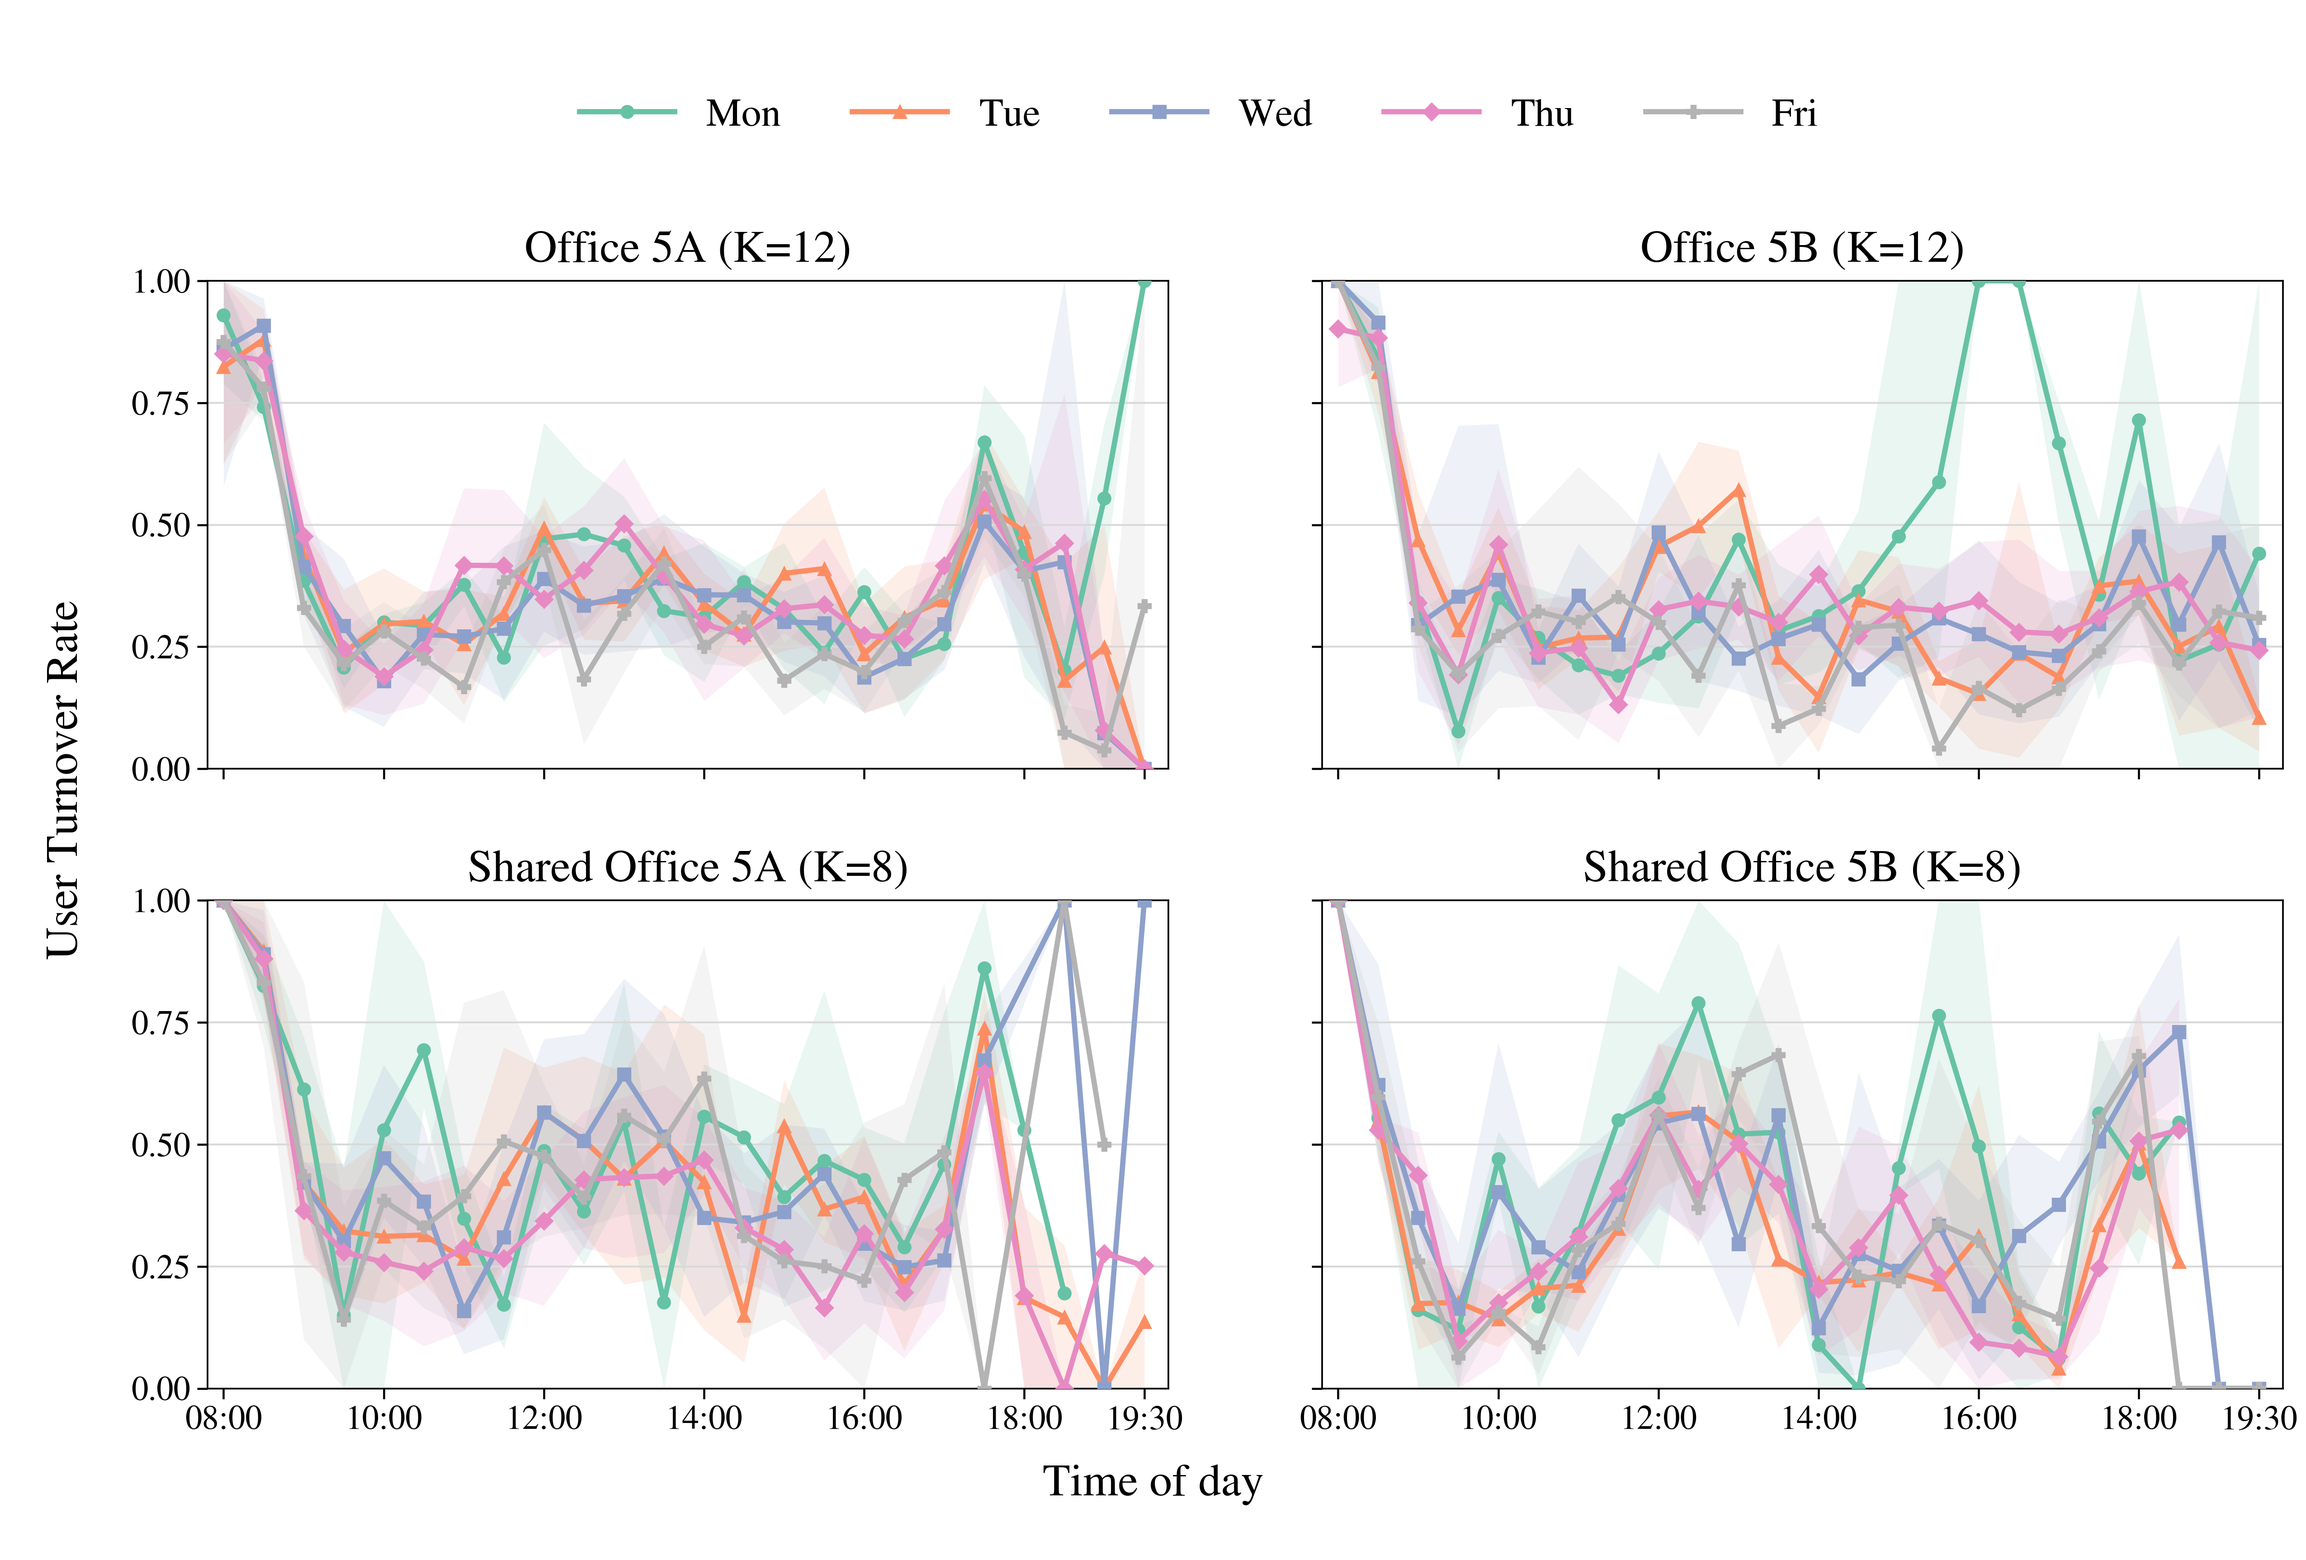
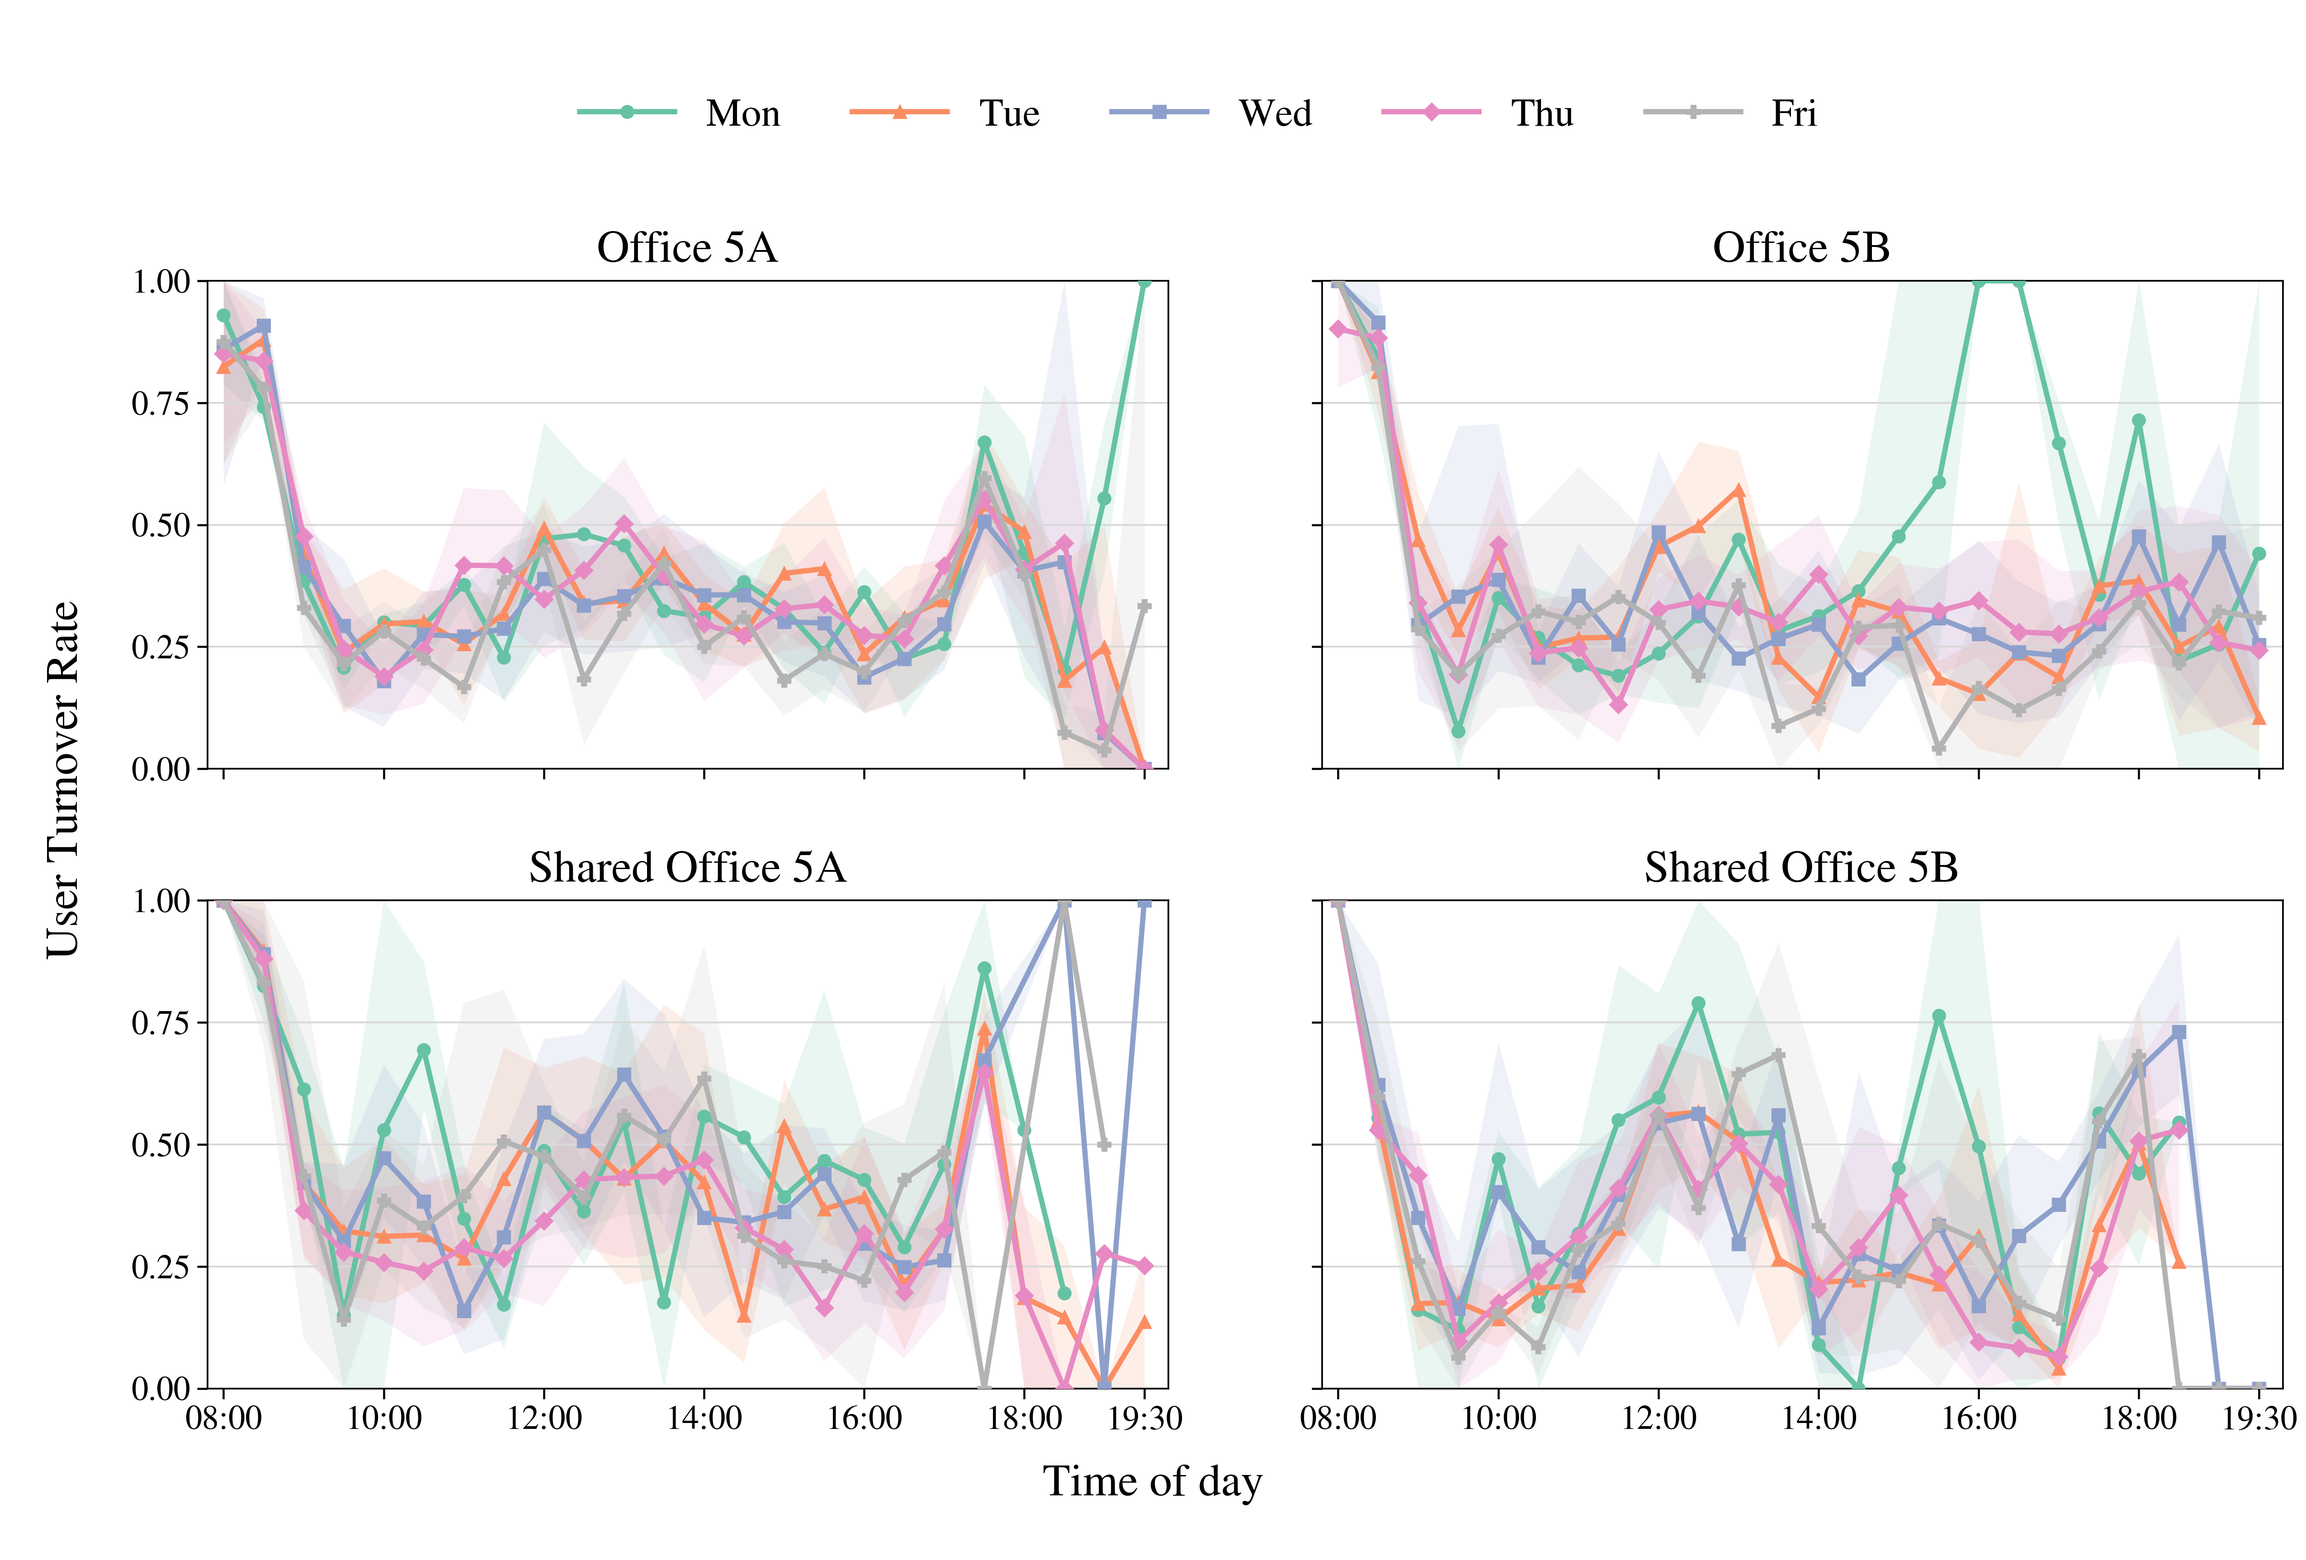
update figures and intro on 9th Oct

diff --git a/chapters/ch1-Intro.tex b/chapters/ch1-Intro.tex
@@ -18,7 +18,7 @@ In recent years, \ac{occ} has emerged as a promising \ac{hvac} strategy that use
 IEA EBC Annex 79 defines \ac{occ} as an ``occupant-in-the-loop'' approach that seeks to provide optimal and personalized conditions rather than imposing fixed settings \cite{wagner_international_2024}.
 In this context, occupant information can range from presence and count to activity and identity, and its usefulness depends on both spatial and temporal resolution \cite{nagy_ten_2023}.
 Higher information resolution can enable more individualized control, but it also increases sensing, data-management, integration, and privacy requirements.
-Typical \ac{occ} frameworks consist of three connected layers: the sensing layer collects information such as environmental conditions, comfort feedback, and occupancy; the learning layer develops preference or occupancy models from these data; and the control layer translates the model outputs into \ac{hvac} actions \cite{soleimanijavid_challenges_2024,xie_review_2020}.
+Typical \ac{occ} frameworks consist of three connected functional components: sensing collects information such as environmental conditions, comfort feedback, and occupancy; learning develops preference or occupancy models from these data; and control translates the model outputs into \ac{hvac} actions \cite{soleimanijavid_challenges_2024,xie_review_2020}.
 The performance of this chain depends not only on model accuracy but also on sensing quality, communication with the \ac{bms}, controller design, and local operating conditions \cite{zhang_impact_2023}.
 Reported barriers to broader deployment include data availability and management, interoperability with existing systems, operator capacity, scalability, privacy, and validation across buildings and climates \cite{obrien_key_2020,nagy_ten_2023,soleimanijavid_challenges_2024}.
 Among these functions, the connection between personal comfort information and the control decision is especially important because it determines how individual preferences affect the final setpoint.
@@ -26,6 +26,7 @@ Among these functions, the connection between personal comfort information and t
 In shared office spaces, however, \ac{occ} cannot rely only on isolated \acp{pcm}, because a single room-level \ac{hvac} setpoint must represent multiple occupants at the same time.
 Recent collective-comfort studies frame shared-zone control as a problem of combining heterogeneous preferences under a common environmental decision \cite{topak_collective_2023, }.
 This makes the construction of a \ac{gcm}, which aggregates individual comfort information into a room-level representation, a central design issue for shared-space \ac{occ}.
+In this study, this representation describes how the group's predicted comfort varies with temperature and provides a basis for selecting a shared setpoint.
 The key question is therefore not only how accurately individual \acp{pcm} predict comfort, but also which occupants should be represented when a room-level control decision is made.
 Despite growing recognition in the industry and active framework development in simulations, real-world \ac{occ} applications in buildings remain limited~\cite{soleimanijavid_challenges_2024}.
 
@@ -37,6 +38,7 @@ Dynamic occupancy should therefore be understood not only as a change in the num
 This distinction corresponds to different grades of occupant information: occupancy count describes how many people are present, whereas identity-level information is needed to associate the present group with person-specific comfort profiles \cite{nagy_ten_2023}.
 Count data alone therefore cannot determine whether the group comfort representation should change when one occupant replaces another.
 Even when the occupancy count is similar, the thermal preferences represented by the present group may differ.
+However, a setpoint selected for a fixed reference group is not updated to reflect such changes in occupant composition.
 This makes static temperature control less reliable, because a condition optimized for one attendance pattern may not represent another.
 
 % To incorporate occupancy information in \ac{occ} frameworks, two main approaches can be identified: prediction-based methods and real-time sensing.
@@ -56,9 +58,9 @@ At the same time, the practical value of real-time occupant-composition data dep
 
 \subsection{Shared-space GCM resolution under dynamic occupancy}
 
-For shared-space \ac{occ}, dynamic occupancy raises a second issue: the controller must decide how individual comfort information should be aggregated for a room-level setpoint.
-Existing \ac{occ} research has largely focused on developing and validating \acp{pcm} and control algorithms in single-occupant settings, while shared spaces with multiple occupants remain less explored \cite{park_critical_2019,jung_human---loop_2019,xie_review_2020}.
-In shared workspaces, multiple occupants with potentially conflicting thermal preferences must be accommodated simultaneously, and simply averaging preferences or applying a single \ac{pcm} may fail to represent the group.
+For shared-space \ac{occ}, these dynamic occupancy patterns raise an aggregation issue: the controller must decide how individual comfort information should be aggregated for a room-level setpoint.
+In shared workspaces, multiple occupants with potentially conflicting thermal preferences must be accommodated simultaneously, and simply averaging preferred temperatures or applying a single \ac{pcm} may fail to represent the group.
+In particular, individual differences in thermal sensitivity, in addition to preferred temperature, can affect collective setpoint selection and comfort probability \cite{jung_comparative_2019}.
 
 The difficulty is shaped by both group size and preference heterogeneity.
 Shared-space studies have shown that collective comfort depends on how conflicting individual preferences are represented and combined, rather than on occupancy count alone \cite{schumann_predicting_2010,topak_collective_2023}.
@@ -66,24 +68,41 @@ Simulation studies further suggest that the combined energy-and-comfort benefit 
 % \mycite{jung_energy_2020}\cite{jung_energy_2020} showed that the number of occupants in a zone can affect both comfort and energy performance, and that results depend on how individual comfort models are integrated.
 \mycite{ono_effects_2022}\cite{ono_effects_2022} further showed that mismatches between comfort-model resolution and control resolution may reduce control effectiveness and occupant satisfaction.
 These findings indicate that shared-space \ac{occ} requires attention to both comfort aggregation and room-level control resolution.
+For a given room-level control resolution, dynamic occupancy also requires deciding when to update the occupant group represented by the \ac{gcm}.
 
 \autoref{table:OccuIntegration} compares field studies that integrate multiple \acp{pcm} within the same control zone.
 Most existing multi-occupant studies assume static occupant attendance configurations and do not account for occupants arriving and leaving dynamically \cite{lee_implementation_2019,li_indoor_2019,li_personalized_2017,li_indoor_2023,aguilera_thermal_2019,li_experimental_2021}.
+Ono et al.~\cite{ono_impact_2022} compared personal- and group-level occupancy information in a field experiment on \ac{pcm}-based control, illustrating the relevance of identifying which occupants are present.
 Lei et al.~\cite{lei_practical_2022} addressed dynamic occupancy using multiple reinforcement-learning models for frequent occupant combinations, but such an approach can be data- and compute-intensive and may not cover all possible occupant combinations.
 Rather than preparing separate control models for many occupant combinations, a more deployable strategy is to vary the temporal resolution at which individual comfort information is aggregated.
 This leads to a practical question: when is static, daily, or real-time aggregation of individual comfort information sufficient for room-level control?
 
 \begin{table}[pos=!htbp]
   \centering
-  \input{pic/ch2-Review/ModelIntegration.tex}
-  \caption{Field OCC studies integrating multiple personal comfort models}
-  \label{table:OccuIntegration}
+  \small
+  \TableSetup{2.5pt}{1.10}
+  \begin{threeparttable}
+    \caption{Studies integrating multiple \acp{pcm} into \ac{occ} across control and occupancy-information resolutions.}
+    \label{table:OccuIntegration}
+    \input{pic/ch1-Intro/ModelIntegration}
+    \begin{tablenotes}[flushleft]
+      \footnotesize
+      \item[] \textit{Note:} In the Algorithm column, RL refers to reinforcement learning, MPC refers to model predictive control, and RB refers to rule-based control.
+      Personal occupancy information indicates that individual occupants can be distinguished, irrespective of whether detection is automated or manual.
+    \end{tablenotes}
+  \end{threeparttable}
 \end{table}
+
+% \begin{table}[pos=!htbp]
+%   \centering
+%   \input{pic/ch1-Intro/ModelIntegration.tex}
+%   \caption{Field OCC studies integrating multiple personal comfort models}
+%   \label{table:OccuIntegration}
+% \end{table}
 
 \subsection{Focus of the research}
 \label{subsec:Focus}
 Based on this background, this study evaluates when higher-resolution aggregation of individual comfort information improves predicted comfort in shared offices, and what operational burden is introduced by real-time occupant-composition updates.
-The analysis compares three levels of group-comfort aggregation, from fixed room-member aggregation to daily and real-time occupant-composition updates, with the operational definitions provided in the Method section.
 Building on prior work on group size and control granularity \cite{ono_effects_2022,jung_energy_2020}, the analysis introduces temporal occupancy dynamics, especially short-horizon occupant turnover, as a key dimension of shared-space \ac{occ}.
 % Using field data from real office spaces, the study relates model performance to subgroup size, mean occupancy, occupancy variability, and \ac{utr}.
 

diff --git a/chapters/ch4-Results.tex b/chapters/ch4-Results.tex
@@ -54,15 +54,14 @@ For \ac{dgcm} and \ac{sgcm}, \ac{dgcm} maintain positive improvements approximat
 
 \begin{figure}[pos=htbp!]
     \centering
-    \includegraphics[width=0.97\linewidth]{\Pic{png}{occupancy_density_timeofday_k12_unaveraged_values_paper}}
+    \includegraphics[width=0.95\linewidth]{\Pic{png}{occupancy_density_timeofday_k12_unaveraged_values_paper}}
     \caption{Occupancy density $N_{r,t}/K$ by time of day: mean and central 50\% and 90\% observation intervals.}
     \label{fig:OccuDensity}
 \end{figure}
-
 \begin{figure}[pos=htbp!]
     \centering
-    \includegraphics[width=0.9\linewidth]{\Pic{png}{daily_occupancy_density_k12_relative_frequency}}
-    \caption{Daily occupancy density histograms of four office rooms $K=12$}
+    \includegraphics[width=0.99\linewidth]{\Pic{png}{daily_attendance_ratio_compact}}
+    \caption{Daily occupancy density histograms of four office rooms}
     \label{fig:DailyOccuDensity}
 \end{figure}
 To further investigate these performance difference between target rooms, \autoref{fig:OccuDensity} illustrates daily trends occupancy density, the ratio of attending occupant count $N_{r,t}$ to subgroup size $K$ in each room along time of the day.
@@ -165,7 +164,7 @@ Except these cases, the \ac{utr} values are generally between 0.2 to 0.5.
 
 \begin{figure}[pos=htbp!]
     \centering
-    \includegraphics[width=0.98\linewidth]{\Pic{png}{analysis25_utr30_rolling_representative_k_four_l5_rooms_readable}}
+    \includegraphics[width=0.98\linewidth]{\Pic{png}{analysis25_utr30_rolling}}
     \caption{Mean \ac{utr}(\ac{utr}) on week of day over one month for four offices}
     \label{fig:UTRexamples}
 \end{figure}

diff --git a/Draft_2026-Jan.tex b/Draft_2026-Jan.tex
@@ -41,6 +41,8 @@
 \usepackage{booktabs}
 % \usepackage{biblatex}
 \usepackage{enumitem}
+\usepackage{threeparttable}
+\newcommand{\TableHeaderLineBreak}{\\\bfseries}
 
 \usepackage[en-GB, showseconds=false]{datetime2}
 \DTMsetstyle{iso}
@@ -58,6 +60,20 @@
 \newcommand*{\ResetPicDir}{\renewcommand*{\PicDir}{\RootPicDir}}
 \newcommand*{\SetPicSubDir}[1]{\renewcommand*{\PicDir}{\RootPicDir /#1}}
 \newcommand*{\Pic}[2]{\PicDir /#2.#1}
+
+\newcolumntype{Y}{>{\raggedright\arraybackslash}X}
+\newcolumntype{Z}{>{\centering\arraybackslash}X}
+\newcolumntype{M}[1]{>{\centering\arraybackslash}p{#1}}
+\newcolumntype{N}[1]{>{\raggedleft\arraybackslash}p{#1}}
+
+\newcommand{\TableHeader}[1]{\textbf{#1}}
+\newcommand{\TableHeaderBreak}[1]{\makecell[c]{\bfseries #1}}
+\newcommand{\SignificantP}[1]{{\bfseries\boldmath\(#1\)}}
+\newcommand{\TableSetup}[2]{%
+  \setlength{\tabcolsep}{#1}%
+  \renewcommand{\arraystretch}{#2}%
+}
+
 
 %%%Author definitions
 \def\tsc#1{\csdef{#1}{\textsc{\lowercase{#1}}\xspace}}
